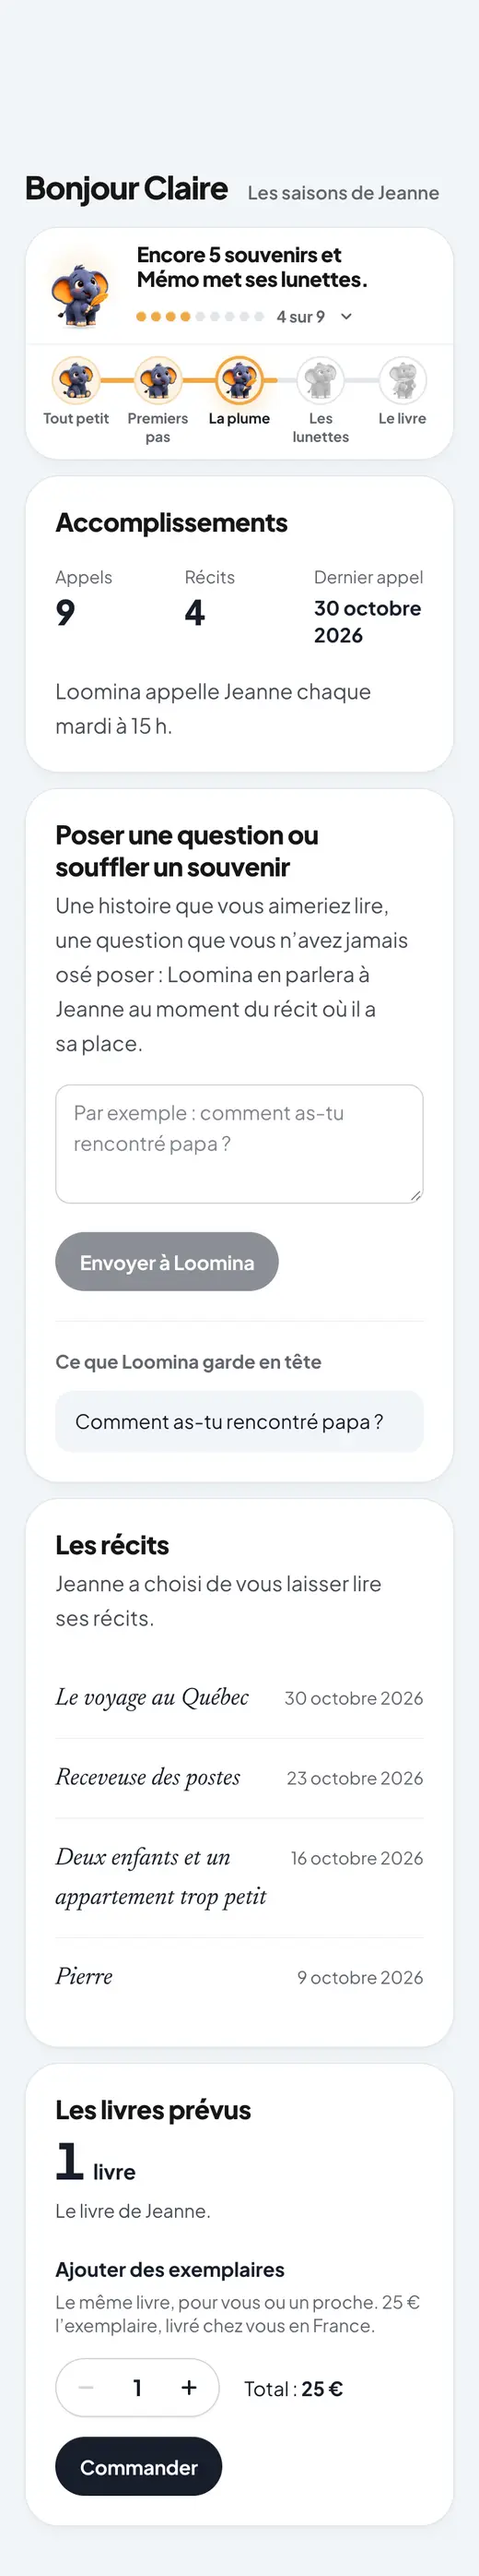
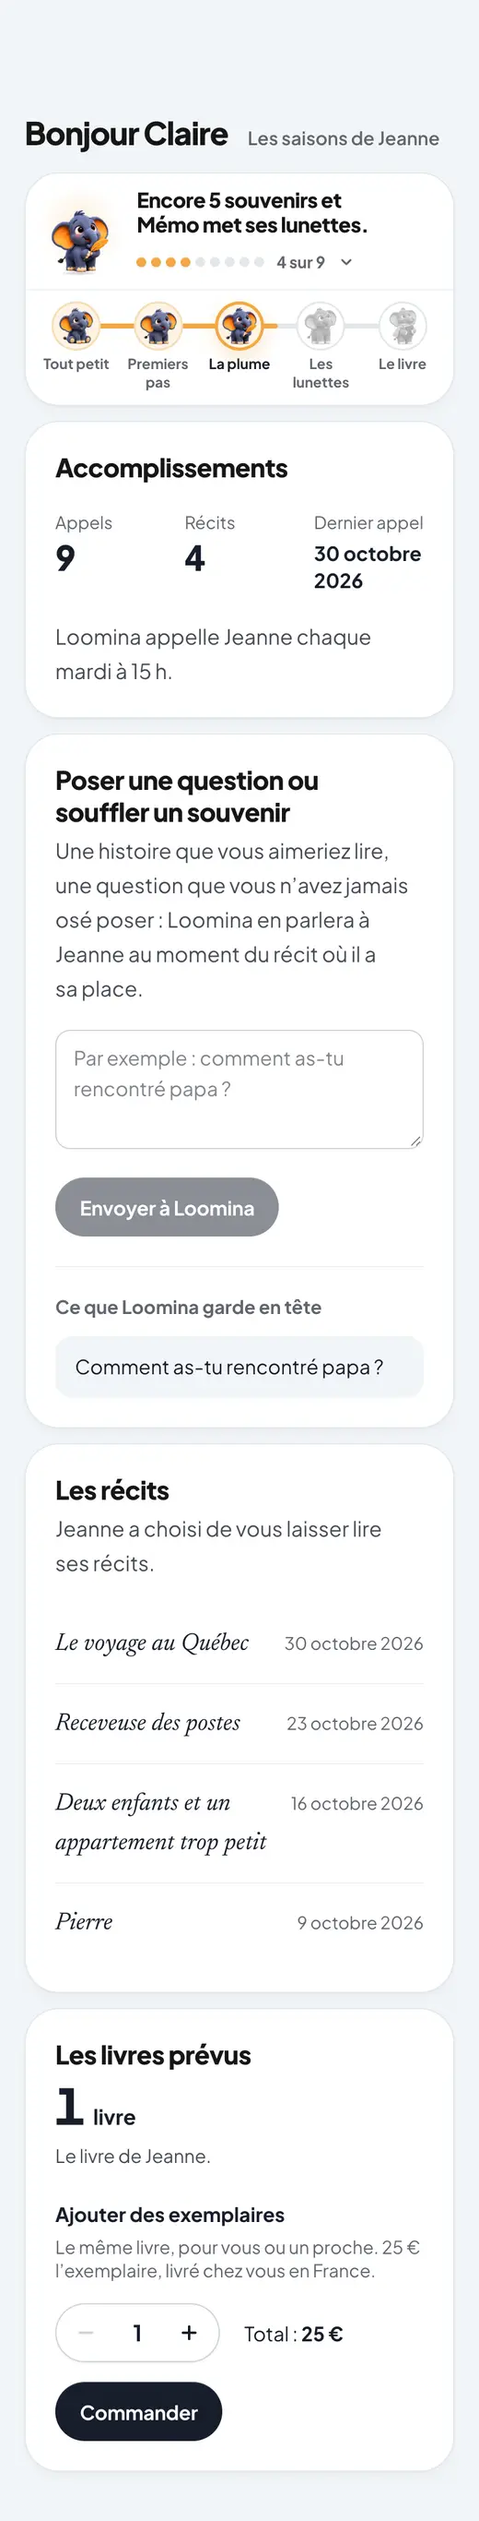
Espaces auteur et famille : plus de vide sous le menu, captures de la démo refaites
Claude-Session: https://claude.ai/code/session_01LhxbKnxbbL6mxQcdztzfrY

diff --git a/lib/admin/map.ts b/lib/admin/map.ts
@@ -163,7 +163,7 @@ export const MAP_GROUPS: MapGroup[] = [
             { id: 'a-num', label: 'Tape son numéro', code: 'app/api/auth/verify' },
             { id: 'a-code', label: 'Code reçu par SMS', d: 'Envoyé par Twilio Verify. Si l’envoi échoue (compte Twilio coupé, par exemple), un message en français invite à réessayer ou à écrire à contact@loomina.eu (avant le 18/11/2026 : « Failed to send verification code »). Depuis le 20/11/2026, chaque SMS qui mène à l’espace (bienvenue, invitation d’un proche, nouvelles, étapes du livre, relances) porte un lien de connexion directe propre au numéro qui le reçoit (loomina.eu/l/…) : un toucher ouvre l’espace, sans code. Lien signé, valable 30 jours ; ensuite, numéro et code comme avant.', code: 'lib/loomina/magic-link.ts, app/l/[token]' },
             { id: 'a-session', label: 'Session de 30 jours', kind: 'end', d: 'L’auteur reste connecté 30 jours sans redemander de code.' },
-            { id: 'a-menu', label: 'Son propre menu', d: 'Depuis le 19/11/2026, une fois connecté, l’auteur ne voit plus le menu ni le pied de page du site : l’espace auteur a sa barre flottante, dans le style de celle de l’admin, avec ses cinq rubriques (Aperçu, Mon livre, Ma vie, Mes appels, Réglages) et « Se déconnecter ». Le logo ramène au site grand public. La bannière jaune « Démonstration » du livre d’exemple est retirée. Sous le logo, une signature : un filet ambre puis « AUTEUR » en petites capitales espacées.', code: 'components/author/AuthorSpace.tsx' },
+            { id: 'a-menu', label: 'Son propre menu', d: 'Depuis le 19/11/2026, une fois connecté, l’auteur ne voit plus le menu ni le pied de page du site : l’espace auteur a sa barre flottante, dans le style de celle de l’admin, avec ses cinq rubriques (Aperçu, Mon livre, Ma vie, Mes appels, Réglages) et « Se déconnecter ». Le logo ramène au site grand public. Depuis le 26/11/2026 (Solal : trop d’espace sous le menu), le bandeau rouge de Noël, caché dans l’espace auteur et l’espace famille, n’y réserve plus sa place en haut : le titre arrive juste sous le menu (app/globals.css). La bannière jaune « Démonstration » du livre d’exemple est retirée. Sous le logo, une signature : un filet ambre puis « AUTEUR » en petites capitales espacées.', code: 'components/author/AuthorSpace.tsx' },
             { id: 'a-memo-jeu', label: 'Mémo : ce qui le fait grandir', d: 'Depuis le 19/11/2026. Principe : un éléphant n’oublie rien. Chaque sujet raconté est un souvenir que Mémo retient ; la carte ne montre que sa phrase, une rangée de points (« 4 sur 9 ») et la ligne des cinq âges ; toucher les points ouvre la liste (racontés, le prochain, à venir). Quand on le touche, il reparle d’un vrai souvenir de l’auteur (titre d’un récit, un proche, une date). À la première visite il est présenté (« Voici Mémo »), et à chaque nouvel âge une scène plein écran le fête et dit ce que l’étape veut dire. Jamais de points ni de série perdue.', code: 'components/author/Companion.tsx' },
             { id: 'a-compact', label: 'Des rubriques épurées', d: 'Depuis le 19/11/2026, chaque rubrique porte son titre en haut (« Bonjour » ne reste que sur l’Aperçu) et ne garde que l’essentiel. Mon livre ne montre plus que le livre composé : une colonne fixe à gauche (titre, photos avec une tuile « + » pour en ajouter, PDF, sommaire) et le texte à droite ; l’explication s’ouvre sur demande ; sur téléphone le sommaire se replie. Les récits « appel par appel » ont quitté Mon livre : ils se lisent et se corrigent dans Mes appels, en ouvrant la ligne de l’appel (le classement des récits « par périodes » n’est plus proposé). Ma vie : la frise verticale, les personnes et les thèmes à côté. Réglages : trois colonnes sur grand écran, sans phrases d’aide superflues. Depuis le 23/11/2026, le rendez-vous (jours et heure) s’enregistre dès qu’on le touche, sans attendre « Enregistrer ».', code: 'components/author/Reader.tsx' },
             { id: 'a-mobile', label: 'Sur téléphone : barre du bas', d: 'Les cinq rubriques (Aperçu, Livre, Ma vie, Appels, Réglages) sont dans une barre fixe en bas de l’écran, à portée de pouce. « Se déconnecter » est en haut à droite, dans la barre (depuis le 19/11/2026 ; avant, en bas des Réglages). Avant (jusqu’au 18/11/2026), la rangée d’onglets dépassait de l’écran et cachait « Mes appels » et « Réglages ».', code: 'components/author/AuthorSpace.tsx' },

diff --git a/components/SpaceDemo.tsx b/components/SpaceDemo.tsx
@@ -23,13 +23,13 @@ export type SpaceId = "auteur" | "famille";
 /** Hauteur de chaque capture, en pixels d'un écran de 390 de large (l'écran du téléphone en fait 844). */
 const SCREENS: Record<SpaceId, { id: string; height: number }[]> = {
   auteur: [
-    { id: "auteur-apercu", height: 1859 },
+    { id: "auteur-apercu", height: 1815 },
     { id: "auteur-livre", height: 2400 },
-    { id: "auteur-vie", height: 2058 },
-    { id: "auteur-appels", height: 1113 },
-    { id: "auteur-reglages", height: 2150 },
+    { id: "auteur-vie", height: 2014 },
+    { id: "auteur-appels", height: 1069 },
+    { id: "auteur-reglages", height: 2106 },
   ],
-  famille: [{ id: "famille-complet", height: 2093 }],
+  famille: [{ id: "famille-complet", height: 2049 }],
 };
 const FRAME_H = 844;
 const HOLD_MS = 1800;

diff --git a/app/globals.css b/app/globals.css
@@ -834,3 +834,9 @@ img[src*="photos/photos-de-famille"] {
 .site-chrome { display: contents; }
 html[data-space="auteur"] .site-chrome,
 html[data-space="famille"] .site-chrome { display: none; }
+/* Le bandeau de Noël (NoelBanner) est caché avec le reste du site : on retire aussi
+   la place qu'il réservait en haut, sinon un grand vide sépare le menu de l'espace (Solal, 26/11/2026). */
+html[data-space="auteur"],
+html[data-space="famille"] { --promo-h: 0px; }
+html[data-space="auteur"] body,
+html[data-space="famille"] body { padding-top: 0; }
